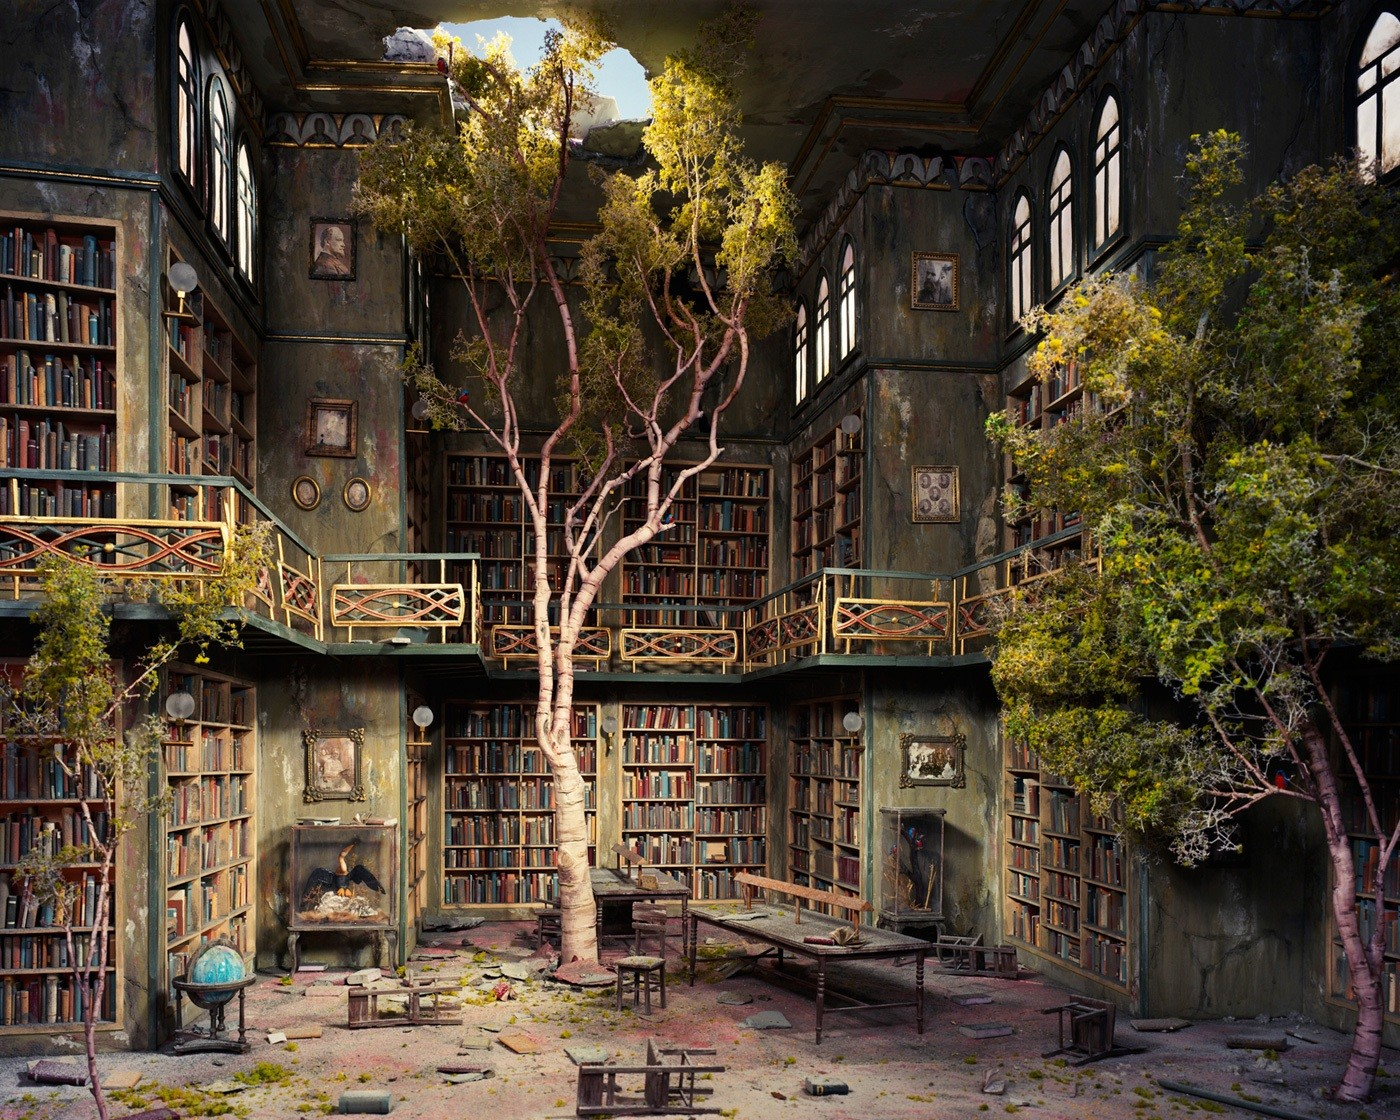
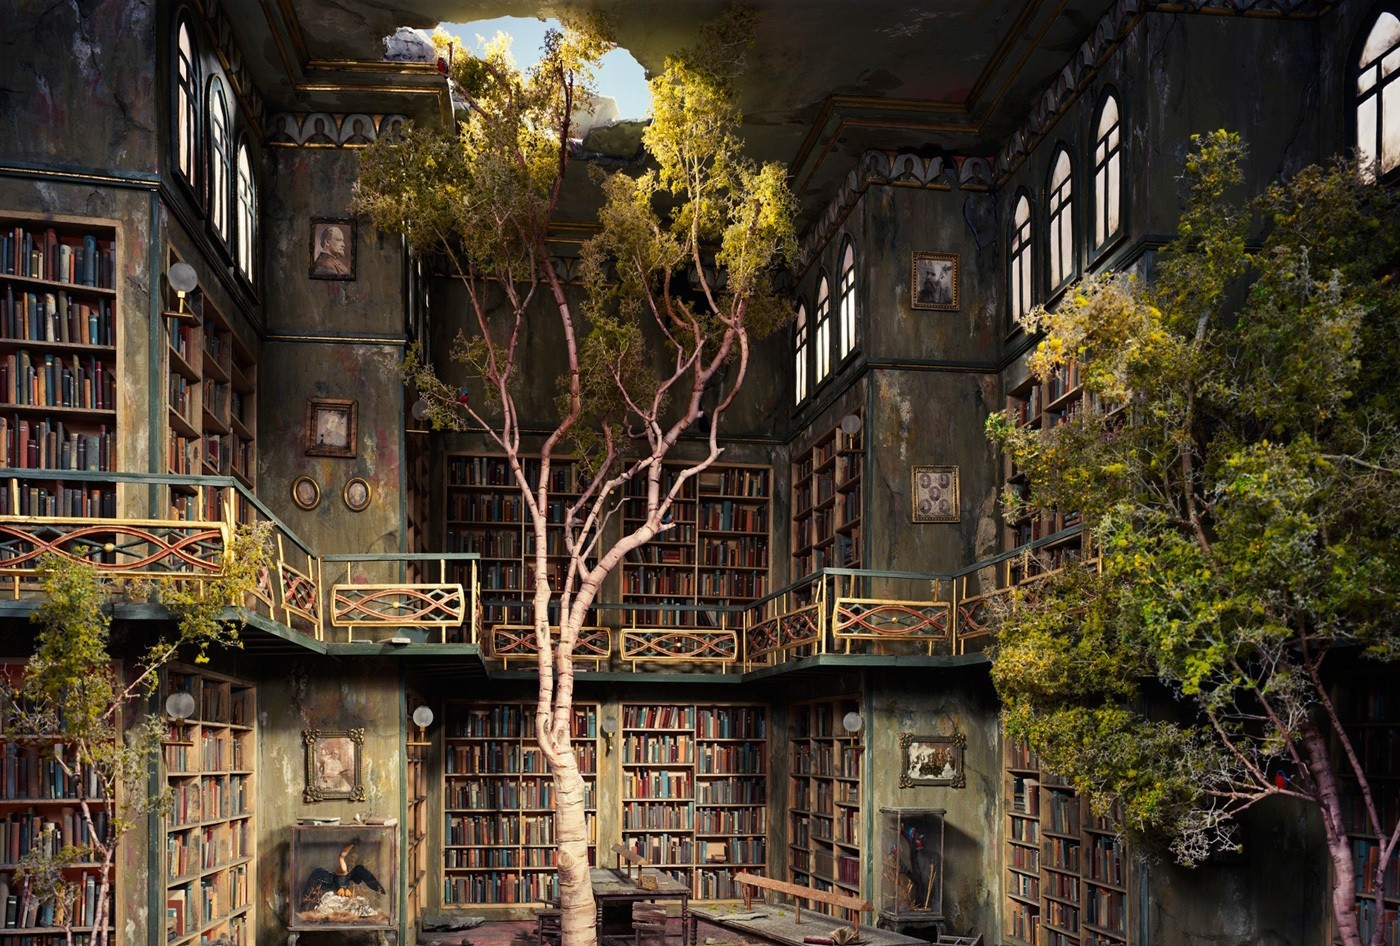
Optimise graphics

diff --git a/index.md b/index.md
@@ -249,7 +249,7 @@ Components for web: pattern libraries, SGDD, BEM, React.
 ## The blocks
 {: #the-blocks }
 
-![](pictures/yandex-blocks.png){: .cover }
+![](pictures/yandex-blocks.jpg){: .cover }
 
 <style>
 #the-blocks h2 {
@@ -691,7 +691,7 @@ npm install sc5-styleguide-visualtest
 ## World
 {: .no-title #world }
 
-![](pictures/world.png){: .world }
+![](pictures/world.jpg){: .world }
 
 <style>
 #world .world {
